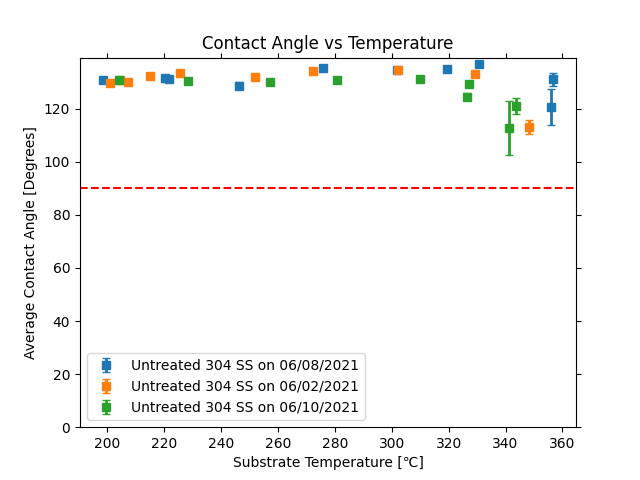
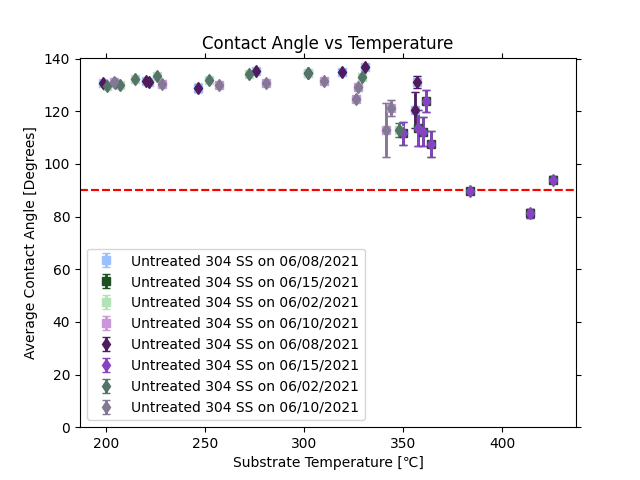
Better plotting

diff --git a/new_GUI.py b/new_GUI.py
@@ -5,12 +5,15 @@ import matplotlib
 matplotlib.use('TkAgg')
 from matplotlib.backends.backend_tkagg import FigureCanvasTkAgg,NavigationToolbar2Tk
 import matplotlib.pyplot as plt
+import matplotlib.colors as mcolors
 import tkinter as tk
 from tkinter import ttk
 from tkinter import filedialog, messagebox
 import pandas as pd
 from datetime import datetime
 import numpy as np
+from random import randint
+from scipy.interpolate import UnivariateSpline as spline
 
 '''
 This file creates a GUI that enables the user to plot different combinations
@@ -22,9 +25,20 @@ class MainApp(tk.Tk):
         '''
         Initializes the tkinter window and creates the layout and buttons.
         '''
+
         super().__init__()
         self.protocol("WM_DELETE_WINDOW", self.on_closing)
         self.title("Wetting Plots")
+
+        # decide plotting shapes and colors
+        self.shapes = ['o','*','s','d','p','^','v','h','.','o','<','>','1','2','3','4','8']
+        self.s = 0
+
+        self.colors = []
+        n = 3000
+        for i in range(n):
+            self.colors.append('#%06X' % randint(0, 0xFFFFFF))
+        self.c = 0
 
         # creates frames
         self.plotting_frame = tk.Frame()
@@ -65,23 +79,24 @@ class MainApp(tk.Tk):
                 except KeyError:
                     self.tests[path[0].split("GF-Wetting/")[1].split("/")[0]] = [f"{path[0]}/output_byDrop.csv"]
 
-
     def load_all(self):
         '''
         Plots all of the saved data at one time.
         '''
         self.find_data()
         for mat in self.tests.keys():
-            print(mat)
             for path in self.tests[mat]:
-                print(f'-{path}')
                 data = pd.read_csv(path)
                 try:
                     date = datetime.strptime(data["Time"][1], '%Y-%m-%d %H:%M:%S.%f').strftime('%m/%d/%Y')
                 except ValueError:
                     date = datetime.strptime(data["Time"][1], '%Y-%m-%d %H:%M:%S').strftime('%m/%d/%Y')
                 self.ax.errorbar(data["Stage Temperature [C]"], data["Overall Average"],
-                yerr=data["Overall Std."],fmt='s', linewidth = 2, capsize=3, label=f"{data['Stage Material'][0]} on {date}")
+                yerr=data["Overall Std."],fmt=self.shapes[self.s],c=self.colors[self.c],
+                linewidth = 2, capsize=3, label=f"{data['Stage Material'][0]} on {date}")
+                self.c += 1
+                print(self.c)
+            self.s += 1
         plt.legend()
         self.ax.set_ylim(0)
         self.ax.axhline(y=90, color='r', linestyle='--')
@@ -95,10 +110,6 @@ class MainApp(tk.Tk):
         Loads the data from one specific day of Testing.
         '''
         self.find_data()
-        # disable analysis buttons
-        self.matbtn["state"] = tk.DISABLED
-        self.daybtn["state"] = tk.DISABLED
-        self.allbtn["state"] = tk.DISABLED
 
         # create new selection window
         win = tk.Toplevel()
@@ -110,7 +121,6 @@ class MainApp(tk.Tk):
         ttk.Label(win, text="Select Date(s): ").grid(row=1, column=0,sticky='ew')
         # creates a local variable so og dictionary is unchanged
         tel = self.tests
-        print(f'0{self.tests}')
 
         # creates String variable and sets up option menu for selecting the material
         self.material = tk.StringVar()
@@ -118,7 +128,6 @@ class MainApp(tk.Tk):
         self.material.trace('w', self.update_options)
 
         ttk.OptionMenu(win, self.material, self.material.get(), *tel.keys()).grid(row=0,column=1,sticky='ew')
-        print(f'1{self.tests}')
 
         # creates a list of dates for the initial material
         self.dates = tel[self.material.get()]
@@ -128,7 +137,6 @@ class MainApp(tk.Tk):
         self.date.set(self.dates[0])
         self.datemenu = ttk.OptionMenu(win, self.date, self.date.get(), *self.dates)
         self.datemenu.grid(row=1,column=1,sticky='ew')
-        print(f'2{self.tests}')
 
         # add done button
         ttk.Button(win, text="Done", command =lambda: self.plot(self.date)).grid(row=3,column=0,columnspan=2,sticky='ew')
@@ -143,7 +151,6 @@ class MainApp(tk.Tk):
             self.dates = tel[self.material.get()]
             for i in range(len(self.dates)):
                 self.dates[i] = self.dates[i].split('/output')[0].split('/')[-1]
-            print(f'3{self.tests}')
             self.date.set(self.dates[0])
             self.datemenu.set_menu(self.date.get(), *self.dates)
 
@@ -152,10 +159,6 @@ class MainApp(tk.Tk):
 
     def load_mat(self):
         self.find_data()
-        # disable analysis buttons
-        self.matbtn["state"] = tk.DISABLED
-        self.daybtn["state"] = tk.DISABLED
-        self.allbtn["state"] = tk.DISABLED
 
         # create new selection window
         win = tk.Toplevel()
@@ -166,61 +169,74 @@ class MainApp(tk.Tk):
         ttk.Label(win, text="Select Material: ").grid(row=0, column=0, sticky='ew')
         # creates a local variable so og dictionary is unchanged
         tel = self.tests
-        print(f'0{self.tests}')
 
         # creates String variable and sets up option menu for selecting the material
         self.material = tk.StringVar()
         self.material.set(list(tel.keys())[0])
 
         ttk.OptionMenu(win, self.material, self.material.get(), *tel.keys()).grid(row=0,column=1,sticky='ew')
-        print(f'1{self.tests}')
 
         # add done button
         ttk.Button(win, text="Done", command =lambda: self.plot_mat(self.material)).grid(row=3,column=0,columnspan=2,sticky='ew')
 
     def plot_mat(self, material):
-        # enable analysis buttons
-        self.matbtn["state"] = tk.NORMAL
-        self.daybtn["state"] = tk.NORMAL
-        self.allbtn["state"] = tk.NORMAL
+
         # closes the "load data" window
         for widget in self.winfo_children():
             if widget.winfo_class() == 'Toplevel':
                 widget.destroy()
-        for path in self.tests[material.get()]:
-            print(f'-{path}')
+        sorted_index = np.argsort([int("".join(i.split('/')[-2].split('_'))) for  i in self.tests[material.get()]])
+
+        for i in sorted_index:
+            path = self.tests[material.get()][i]
             data = pd.read_csv(path)
             try:
                 date = datetime.strptime(data["Time"][1], '%Y-%m-%d %H:%M:%S.%f').strftime('%m/%d/%Y')
             except ValueError:
                 date = datetime.strptime(data["Time"][1], '%Y-%m-%d %H:%M:%S').strftime('%m/%d/%Y')
+            print("plotting")
             self.ax.errorbar(data["Stage Temperature [C]"], data["Overall Average"],
-            yerr=data["Overall Std."],fmt='s', linewidth = 2, capsize=3, label=f"{data['Stage Material'][0]} on {date}")
+            yerr=data["Overall Std."],fmt=self.shapes[self.s], linewidth = 2, capsize=3, label=f"{data['Stage Material'][0]} on {date}", ms=8)
+            self.c += 1
+            self.s += 1
+
+        x = []
+        y = []
+        print(self.ax.get_lines())
+        for line in self.ax.get_lines()[0:-1:3]:
+            x.extend(line.get_xdata())
+            y.extend(line.get_ydata())
+
+
+        zipped_lists = zip(x, y)
+        sorted_pairs = sorted(zipped_lists)
+
+        tuples = zip(*sorted_pairs)
+        x, y = [ list(tuple) for tuple in  tuples]
+        print(x)
+        print(y)
+        z = spline(x,y,s=1000)
+        self.ax.plot(x, z(x))
         plt.legend()
         self.ax.set_ylim(0)
-        self.ax.axhline(y=90, color='r', linestyle='--')
+        self.ax.axhline(y=90, color='r', linestyle='--', lw=3)
         plt.xlabel("Substrate Temperature [\u2103]")
         plt.ylabel("Average Contact Angle [Degrees]")
         plt.title(f'Contact Angle vs Temperature')
+
         self.canvas.draw()
+        self.s += 1
 
     def plot(self, date):
-        # enable analysis buttons
-        self.matbtn["state"] = tk.NORMAL
-        self.daybtn["state"] = tk.NORMAL
-        self.allbtn["state"] = tk.NORMAL
 
         self.find_data()
         # closes the "load data" window
         for widget in self.winfo_children():
             if widget.winfo_class() == 'Toplevel':
                 widget.destroy()
-        print(self.tests)
         tests = self.tests
         for key in tests.keys():
-            print(key)
             for path in tests[key]:
-                print(path)
                 if self.date.get() in path:
                     data = pd.read_csv(path)
                     try:
@@ -235,18 +251,17 @@ class MainApp(tk.Tk):
         self.ax.axhline(y=90, color='r', linestyle='--')
         plt.xlabel("Substrate Temperature [\u2103]")
         plt.ylabel("Average Contact Angle [Degrees]")
-        plt.title(f'{self.Material.get()} Contact angle vs Temperature')
+        plt.title(f'{data["Stage Material"][0]} Contact angle vs Temperature')
         self.canvas.draw()
 
 
 
     def clear(self):
         self.ax.clear()
+        self.c = 0
+        self.s = 0
         self.canvas.draw()
-        # enable analysis buttons
-        self.matbtn["state"] = tk.NORMAL
-        self.daybtn["state"] = tk.NORMAL
-        self.allbtn["state"] = tk.NORMAL
+
 
     def on_closing(self):
         '''
